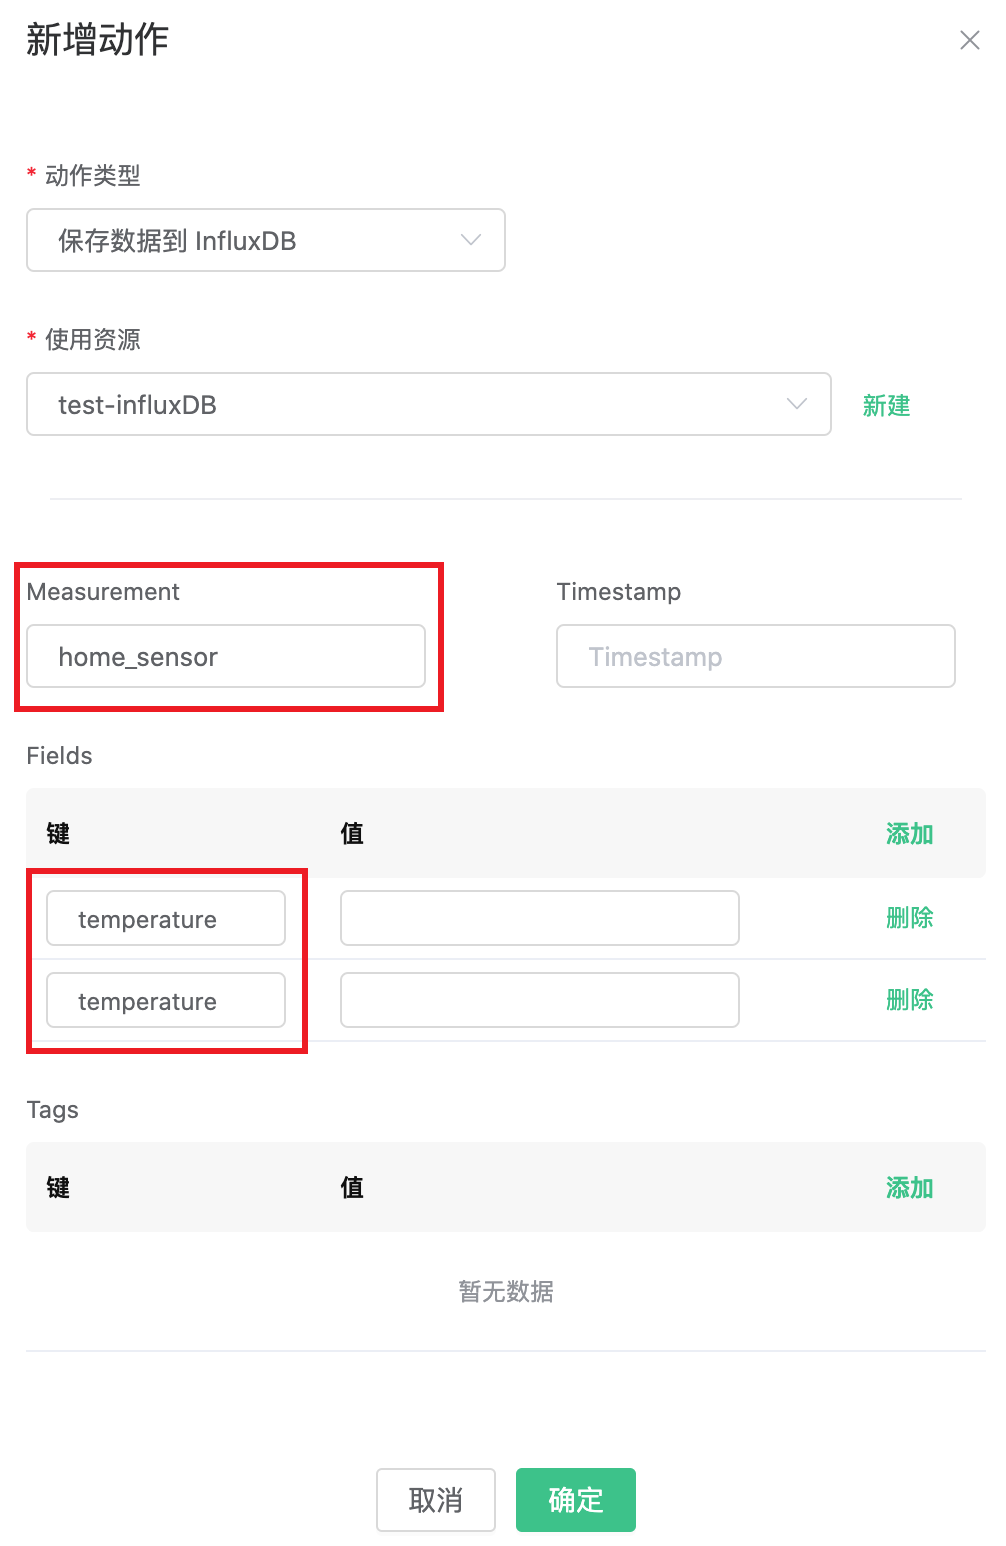
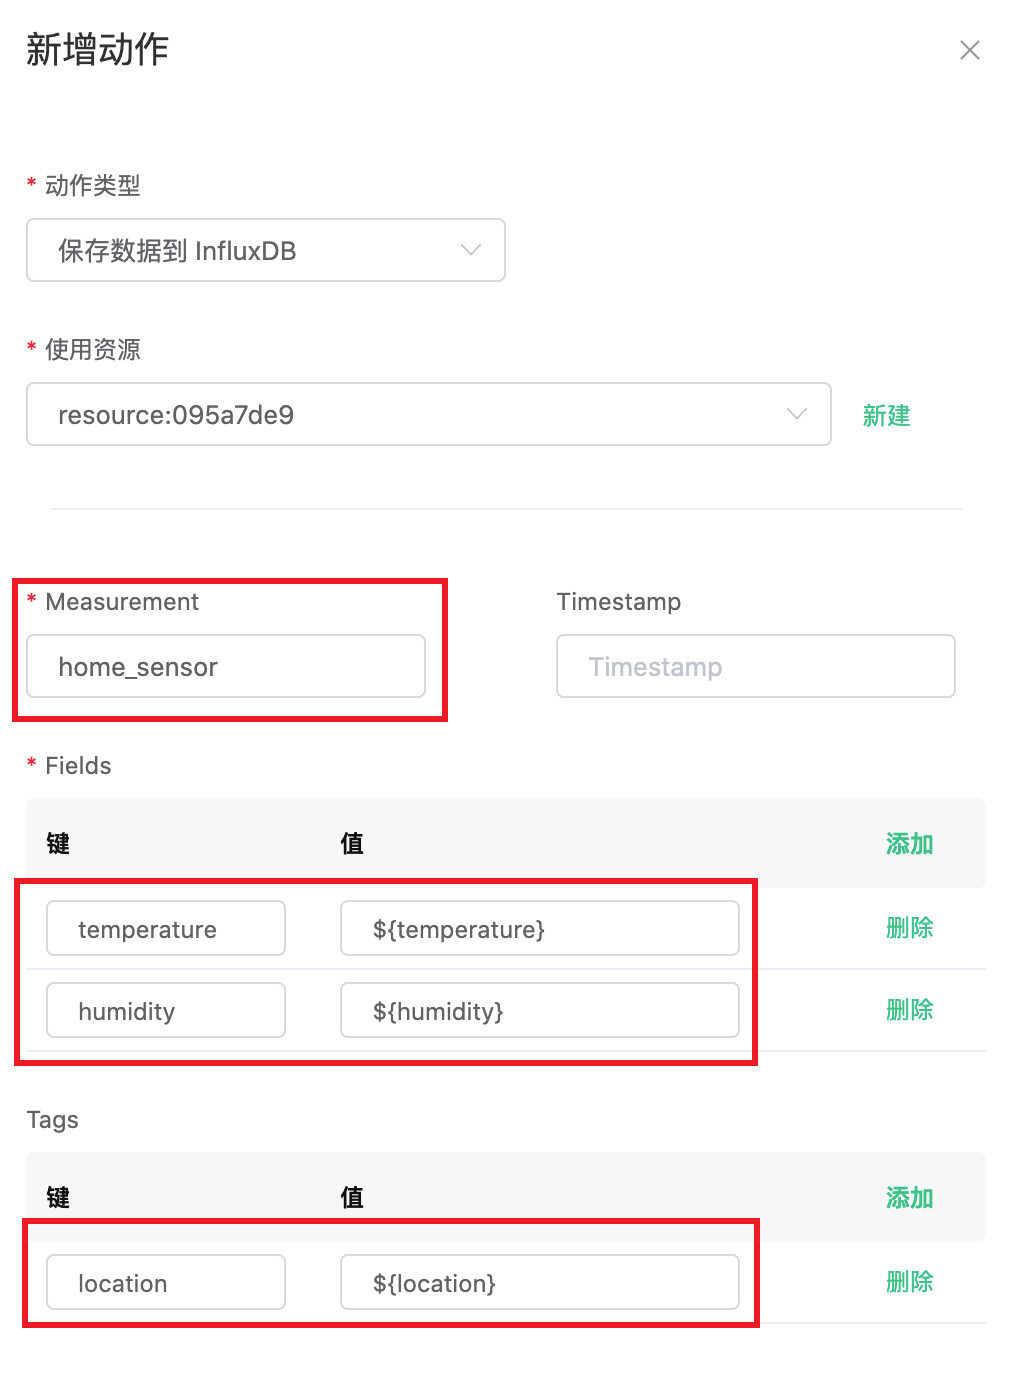
feat(influxDB): add doc of influxDB

diff --git a/zh_CN/SUMMARY.md b/zh_CN/SUMMARY.md
@@ -19,11 +19,13 @@
   - [桥接数据到 Kafka](./use_cases/rule_engine/rule_engine_kafka.md)
   - [桥接数据到 阿里云 Kafka](./use_cases/rule_engine/rule_engine_aliyun_kafka.md)
   - [桥接数据到 华为云 Kafka](./use_cases/rule_engine/rule_engine_huawei_kafka.md)
+  - [桥接数据到 InfluxDB](./use_cases/rule_engine/rule_engine_influxDB.md)
   - [桥接数据到 MQTT Broker](./use_cases/rule_engine/rule_engine_mqtt.md)
   - [离线消息转发到 Webhook](./use_cases/rule_engine/rule_engine_web_hook.md)
   - [消息重新发布](./use_cases/rule_engine/rule_engine_republish.md)
   - [离线消息保存到 MySQL](https://docs.emqx.net/enterprise/latest/cn/rule/rule-example.html#%E4%BF%9D%E5%AD%98%E6%95%B0%E6%8D%AE%E5%88%B0-mysql)
   - [离线消息保存到 PostgreSQL](https://docs.emqx.net/enterprise/latest/cn/rule/rule-example.html#%E4%BF%9D%E5%AD%98%E6%95%B0%E6%8D%AE%E5%88%B0-postgresql)
+  - [离线消息保存到 TimescalaDB](https://docs.emqx.net/enterprise/latest/cn/rule/rule-example.html#%E4%BF%9D%E5%AD%98%E6%95%B0%E6%8D%AE%E5%88%B0-timescaledb)
   - [离线消息保存到 Cassandra](https://docs.emqx.net/enterprise/latest/cn/rule/rule-example.html#%E4%BF%9D%E5%AD%98%E6%95%B0%E6%8D%AE%E5%88%B0-cassandra)
   - [离线消息保存到 MongoDB](https://docs.emqx.net/enterprise/latest/cn/rule/rule-example.html#%E4%BF%9D%E5%AD%98%E6%95%B0%E6%8D%AE%E5%88%B0-mongodb)
   - [从 Redis 中获取订阅关系](https://docs.emqx.net/enterprise/latest/cn/rule/rule-example.html#%E4%BB%8E-redis-%E4%B8%AD%E8%8E%B7%E5%8F%96%E8%AE%A2%E9%98%85%E5%85%B3%E7%B3%BB)
